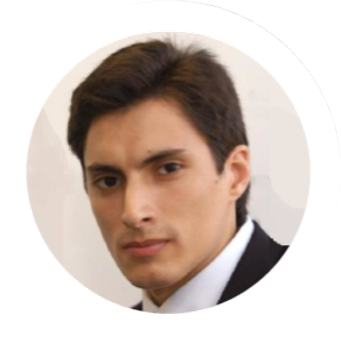
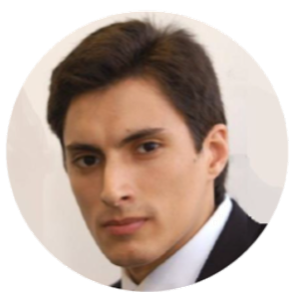
landing ready

diff --git a/src/app/pages/index.tsx b/src/app/pages/index.tsx
@@ -14,7 +14,7 @@ const Index: React.FC = () => {
   const initialState = { accounts: [] }
   const [wallet, setWallet] = useState(initialState)
   let accounts;
-  let connectWalletLabel = "Connect Wallet";
+  let connectWalletLabel = "Sign up";
 
   /******************************************************************************************************/
   /* Events */
@@ -96,11 +96,11 @@ const Index: React.FC = () => {
             
             <nav className={css.nav}>
                 <ul>
-                    <li className={css.navItem}><a className={css.navLink} href="#AboutAs">About as</a></li>
+                    <li className={css.navItem}><a className={css.navLink} href="#AboutAs">About us</a></li>
                     <li className={css.navItem}><a className={css.navLink} href="#Vision">Vision</a></li>
                     <li className={css.navItem}><a className={css.navLink} href="#WhatIs">What is</a></li>
-                    <li className={css.navItem}><a className={css.navLink} href="#CreateYourIdentity">Create your identity</a></li>
                     <li className={css.navItem}><a className={css.navLink} href="#Team">Team</a></li>
+                    <li className={css.navItem}><a className={css.navLink} href="#FollowUs">Follow us</a></li>
                 </ul>
             </nav>
         </header>
@@ -177,7 +177,7 @@ const Index: React.FC = () => {
                 </div>
 
                 <div className={css.divIntroImg}>
-                    <img className={css.introImg} alt="img1" />
+                    <img className={css.whatIsImg} alt="decentralizeIdentityImg" />
                 </div>
             </div>
 
@@ -187,7 +187,7 @@ const Index: React.FC = () => {
 
             <div className={css.divContent}>
                 <div className={css.divIntroImg}>
-                    <img className={css.introImg} alt="img1" />
+                    <img className={css.sybilAttackImg} alt="sybilAttackImg" />
                 </div>
 
                 <div className={css.divIntro}>
@@ -196,49 +196,6 @@ const Index: React.FC = () => {
                     <p>In the context of Web3 and blockchain-based systems, Sybil attacks pose a significant threat, as they can potentially undermine the integrity, trustworthiness, and security of decentralized operations.</p>
                     <br></br>
                     <p>OnchaID's innovative approach mitigates the risk of Sybil attacks by providing robust decentralized identity solutions, ensuring the authenticity and accountability of participants in the network.</p>
-                </div>
-            </div>
-        </section>
-
-        <section className={css.divSection} id="CreateYourIdentity">
-            <div className={css.divTitle}>
-                <label className={css.title}>Create your identity</label>
-            </div>
-
-            <div className={css.divContent}>
-            <div id='carrusel' className={css.divCarousel}>
-                <div className={css.step}>
-                    <label className={css.subTitle}>Registration</label>
-                        <div className={css.divIntro}>
-                            <p>Users provide biometric data as fingerprints, eye scans, etc. To prove their identity.</p>
-                        </div>
-                    </div>
-
-                    <div className={css.step}>
-                        <label className={css.subTitle}>Data  anonymization</label>
-                        <div className={css.divIntro}>
-                            <p>Provided data is hashed and then sent to the AI network to validate the user identity.</p>
-                        </div>
-                    </div>
-
-                    <div className={css.step}>
-                        <label className={css.subTitle}>Identity check</label>
-                        <div className={css.divIntro}>
-                            <p>Identity checkThe AI model compares the data and check if the provided credentials exist or match an existing user.</p>
-                        </div>
-                    </div>
-
-                    <div className={css.step}>
-                        <label className={css.subTitle}>Validation</label>
-                        <div className={css.divIntro}>
-                            <p>Once validated, user receives tokens and hashed data is stored in the blockchain.</p>
-                        </div>
-                    </div>
-                </div>
-
-                <div className="divCarruselButton">
-                    <label className={css.arrowButton} onClick={() => moverCarrusel(-1)}>←</label>
-                    <label className={css.arrowButton} onClick={() => moverCarrusel(1)}>→</label>
                 </div>
             </div>
         </section>
@@ -256,7 +213,7 @@ const Index: React.FC = () => {
 
                 <div className={css.divColumn}>
                     <img className={css.teamImg2} alt="Santiago"/>
-                    <label className={css.subTitle}>Santiago</label>
+                    <label className={css.subTitle}>Santiago Yanzon</label>
                 </div>
 
                 <div className={css.divColumn}>
@@ -276,21 +233,40 @@ const Index: React.FC = () => {
             </div>
         </section>
         
-        <div className={css.divTitle}>
-            <label className={css.title}>Follow us</label>
-        </div>
-
-        <div className={css.divContent}>
-            <div className={css.divIntro}>
-                <p>@onchaid</p>
-                <br></br>
-                <p>github.com/onchaid</p>
+        <section className={css.divSection} id="FollowUs">
+            <div className={css.divTitle}>
+                <label className={css.title}>Follow us</label>
             </div>
 
-            <div className={css.divIntroImg}>
-                <img className={css.introImg} alt="img1" />
+            <div className={css.divContent}>
+                <div className={css.divFollowUs}>
+                    <div className={css.divSocialNetwork}>
+                        <img className={css.twitterImg} alt="twitterImg" />
+                        <div className={css.divSocialNetworkLink}>
+                            <a href='https://twitter.com/onchaid'>Twitter</a>
+                        </div>
+                    </div>
+                    <br></br>
+                    <div className={css.divSocialNetwork}>
+                        <img className={css.githubImg} alt="githubImg" />
+                        <div className={css.divSocialNetworkLink}>
+                        <a href='https://github.com/onchaid'>Github</a>
+                        </div>
+                    </div>
+                    <br></br>
+                    <div className={css.divSocialNetwork}>
+                        <img className={css.youtubeImg} alt="youtubeImg" />
+                        <div className={css.divSocialNetworkLink}>
+                            <a href='https://www.youtube.com/'>Youtube</a>
+                        </div>
+                    </div>
+                </div>
+
+                <div className={css.divFollowUsImg}>
+                    <img className={css.followUsImg} alt="followUsImg" />
+                </div>
             </div>
-        </div>
+        </section>
     </div>
   );
 };

diff --git a/src/app/css/home.module.css b/src/app/css/home.module.css
@@ -11,8 +11,9 @@
 }
 
 .divHeader {
-    height: 100vh;
+    height: 110vh;
     padding-top: 6vh;
+    overflow: hidden;
 }
 
 .background {
@@ -193,9 +194,24 @@
 }
 
 .introImg {
-    content: url("../../assets/NoImage.png");
+    content: url("../../assets/AboutUs.jpg");
     position: relative;
-    width: 50%;
+    width: 80%;
+    z-index: 9;
+    margin-top: 5%;
+}
+
+.whatIsImg {
+    content: url("../../assets/Decentralized_Identity.png");
+    position: relative;
+    width: 80%;
+    z-index: 9;
+}
+
+.sybilAttackImg {
+    content: url("../../assets/Sybil_Attack.png");
+    position: relative;
+    width: 60%;
     z-index: 9;
 }
 
@@ -215,35 +231,102 @@
     content: url("../../assets/LudovicoSforza.png");
     position: relative;
     z-index: 10;
-    width: 100%;
+    width: 90%;
+    padding-bottom: 5%;
 }
 
 .teamImg2 {
-    content: url("../../assets/NoImage.jpg");
+    content: url("../../assets/SantiagoYonzon.png");
     position: relative;
     z-index: 10;
-    width: 100%;
+    width: 90%;
+    padding-bottom: 9%;
 }
 
 .teamImg3 {
     content: url("../../assets/DavidGimenez.png");
     position: relative;
     z-index: 10;
-    width: 100%;
+    width: 90%;
+    padding-bottom: 6%;
 }
 
 .teamImg4 {
     content: url("../../assets/AlexSabogal.png");
     position: relative;
     z-index: 10;
-    width: 100%;
+    width: 90%;
+    padding-bottom: 4%;
 }
 
 .teamImg5 {
     content: url("../../assets/DanielRuiz.png");
     position: relative;
     z-index: 10;
-    width: 100%;
+    width: 90%;
+    padding-bottom: 5%;
+}
+
+.divFollowUs {
+    width: 20%;
+    margin-left: 20%;
+    color:white;
+    text-align: left;
+    align-content: left;
+    justify-content: left;
+    margin-top: 3%;
+    margin-left: 20%;
+    margin-bottom: 15%;
+}
+
+.divFollowUsImg {
+    width: 30%;
+    height: 30%;
+    z-index: 8;
+    text-align: left;
+    align-content: left;
+    justify-content: left;
+    display: flex;
+}
+
+.followUsImg {
+    background-color: white;
+    content: url("../../assets/FollowUs.jpeg");
+    position: relative;
+    width: 40%;
+    z-index: 11;
+    padding: 1%;
+}
+
+.divSocialNetwork {
+    display: inline-flex;
+}
+
+.divSocialNetworkLink {
+    margin-top: 1%;
+    margin-left: 5%;
+}
+
+.twitterImg {
+    background-color: white;
+    content: url("../../assets/Twitter.jpg");
+    position: relative;
+    width: 10%;
+    z-index: 11;
+}
+
+.githubImg {
+    content: url("../../assets/GitHub.png");
+    position: relative;
+    width: 10%;
+    z-index: 11;
+}
+
+.youtubeImg {
+    content: url("../../assets/Youtube_bw2.png");
+    position: relative;
+    width: 10%;
+    z-index: 11;
 }
 
 .header {
